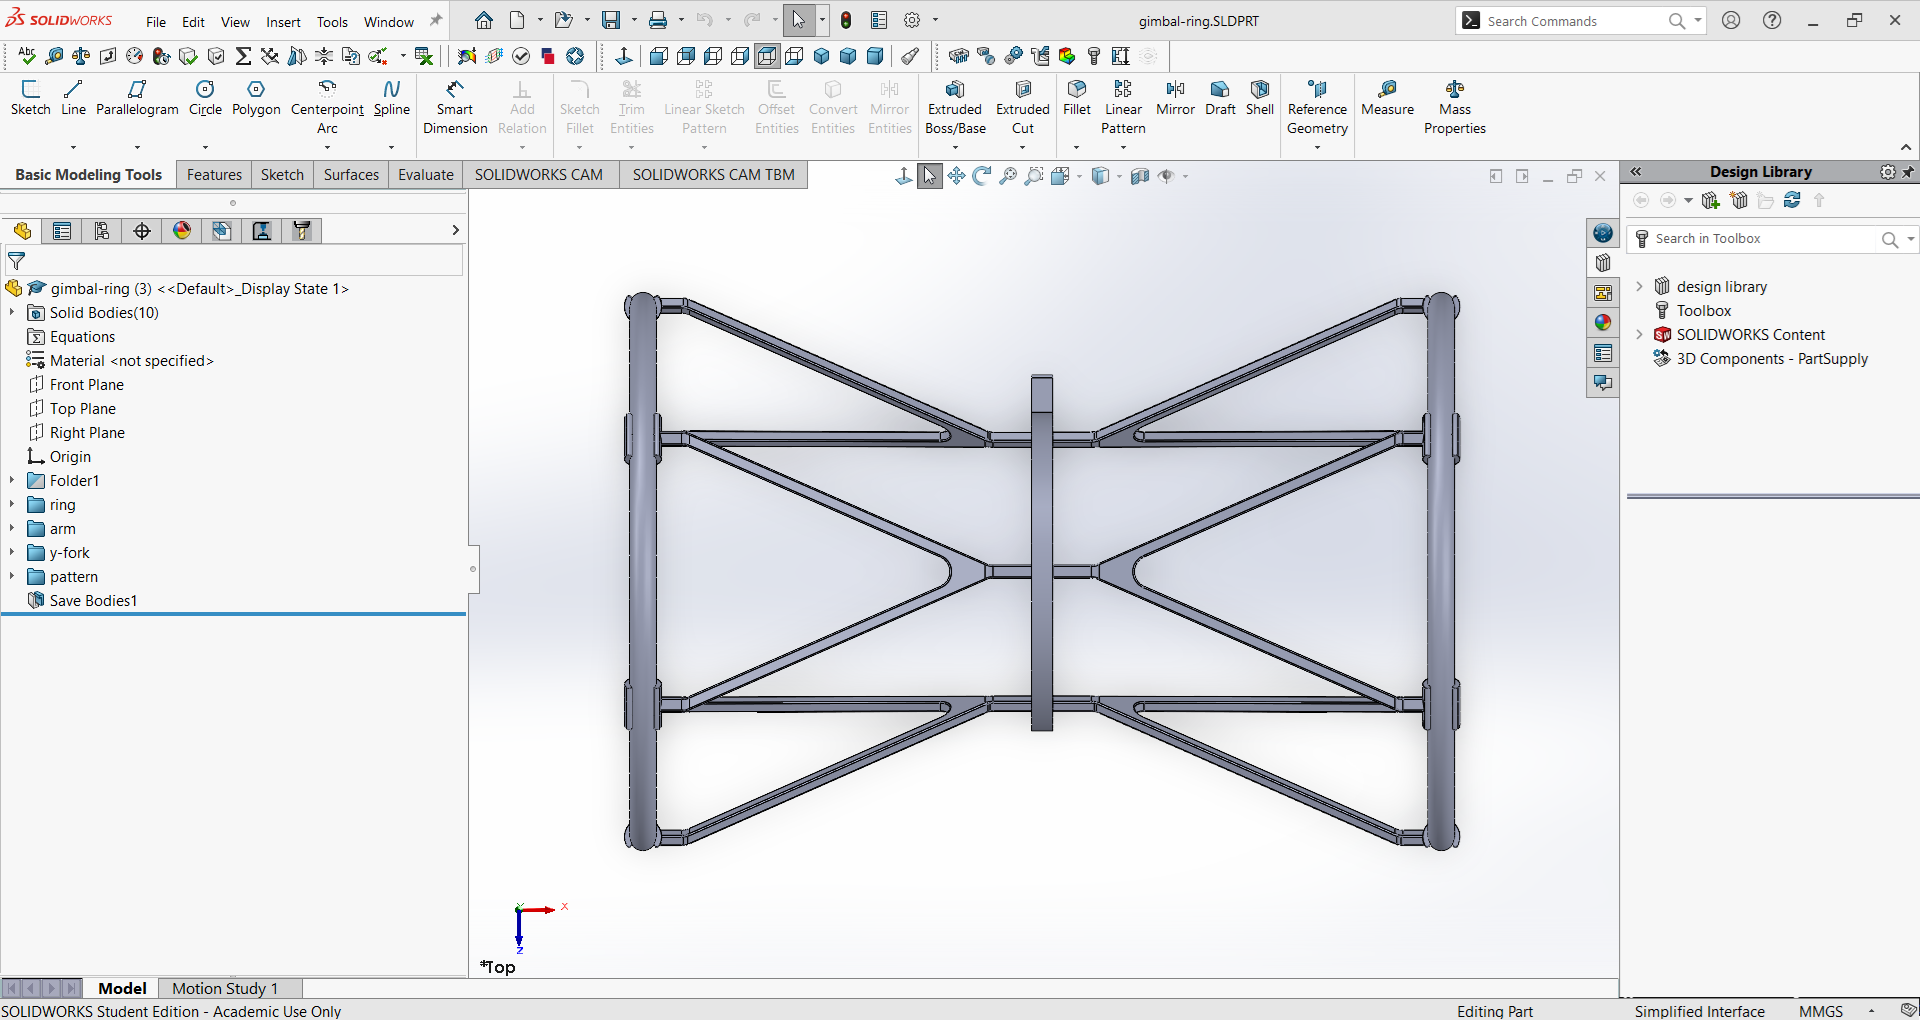
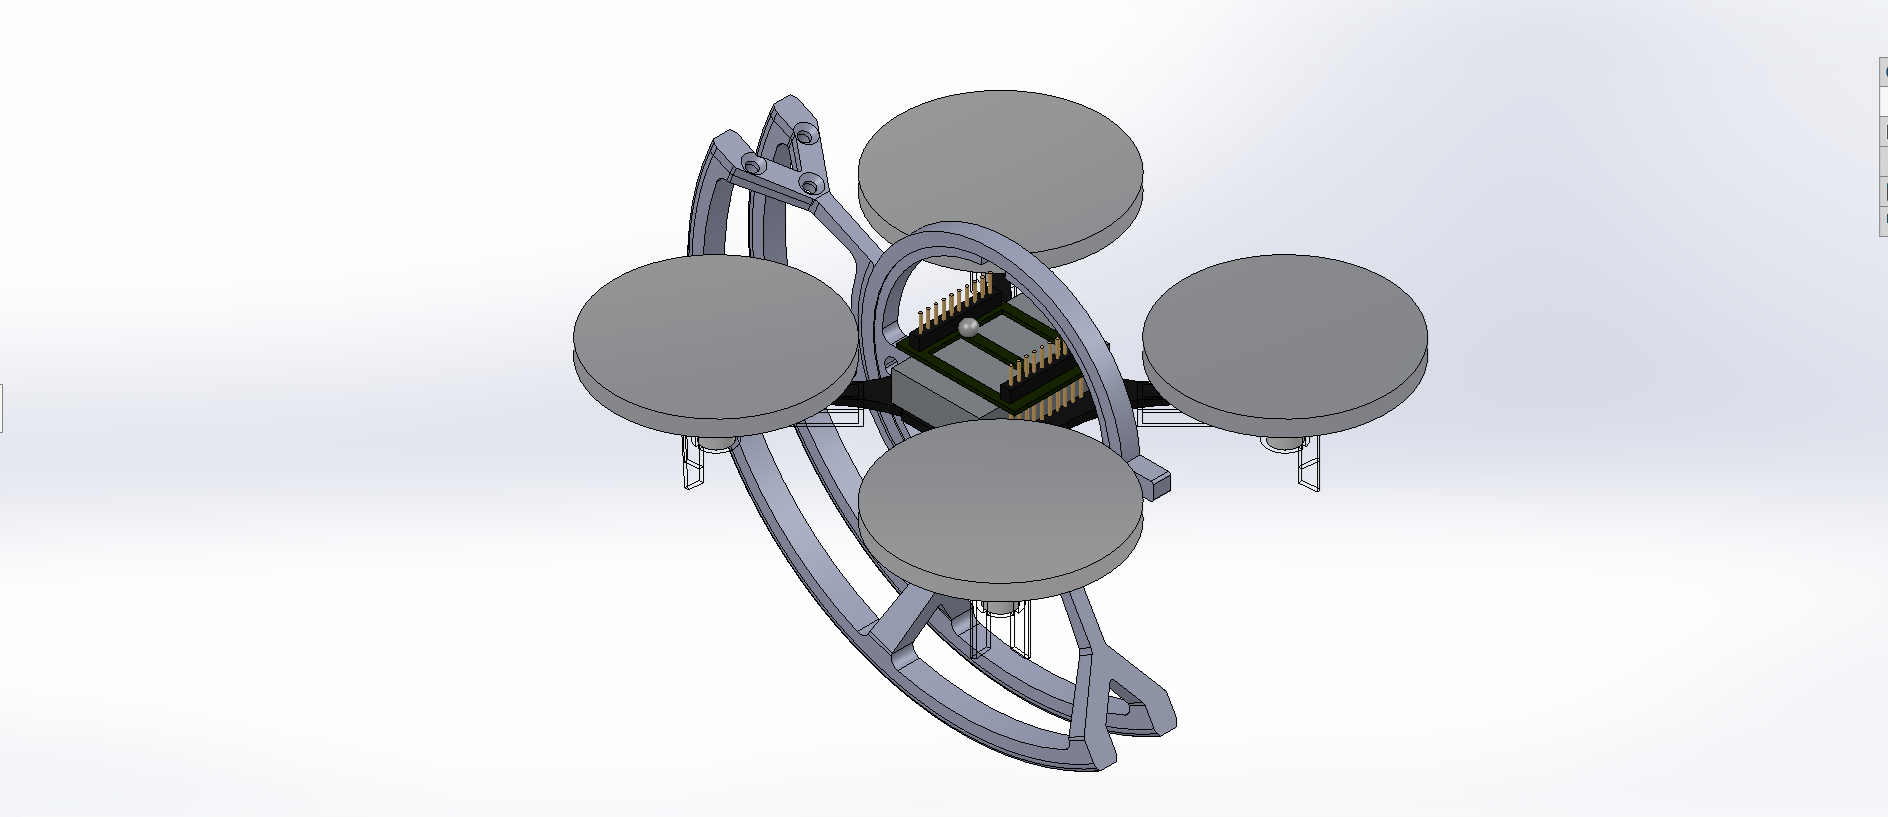
2-15-2026

diff --git a/_includes/footer.html b/_includes/footer.html
@@ -17,7 +17,7 @@
     kofiWidgetOverlay.draw('nathange', {
       'type': 'floating-chat',
       'floating-chat.donateButton.text': 'Support me',
-      'floating-chat.donateButton.background-color': '#323842',
+      'floating-chat.donateButton.background-color': 'transparent',
       'floating-chat.donateButton.text-color': '#fff'
     });
   </script>

diff --git a/projects/omni-drone.md b/projects/omni-drone.md
@@ -3,19 +3,41 @@ layout: project
 category: "research"
 title: "Omni Drone"
 date: 2026-01-24
-image: "placeholder.jpg"
+image: "omni-drone.png"
 description: "A drone that can traverse the ground"
-repo: "https://github.com/nzge/oct-probe-mount"
+repo: "https://github.com/nzge/omni-drone"
 toc: true
 ---
+
 
 
 **Project objective:**
 
 ## Build Log
 
-> 01-30-26: 1st iteration 
+> 02-14-26:   
 >
 > ![Alt text](/assets/media/omni-drone/build-log/01-30-26.png){: 
+style="width:400px;display: block; margin: auto;"}
+> ![Alt text](/assets/media/omni-drone/build-log/01-30-26.png){: 
+style="width:400px;display: block; margin: auto;"}
+> ![Alt text](/assets/media/omni-drone/build-log/01-30-26.png){: 
+style="width:400px;display: block; margin: auto;"}
+
+
+> 02-12-26:   
+>
+> ![Alt text](/assets/media/omni-drone/build-log/2026-02-12_1.png){: 
+style="width:400px;display: block; margin: auto;"}
+> ![Alt text](/assets/media/omni-drone/build-log/2026-02-12_2.png){: 
+style="width:400px;display: block; margin: auto;"}
+
+> 02-6-26:   
+>
+> figure out if we can use a single disc omniwheel design over the more traditional 2 disc design to save weight and reduce complexity.
+
+> 01-30-26: 1st iteration 
+>
+> ![Alt text](/assets/media/omni-drone/build-log/2026-01-30.png){: 
 style="width:400px;display: block; margin: auto;"}
 

diff --git a/projects/flexure-kit.md b/projects/flexure-kit.md
@@ -13,6 +13,14 @@ toc: true
 
 ## Build Log
 
+> 02-11-26: 
+> Make the wires longer and making the peg boards larger with more holes. The thinner and longer the beams, the more they will behave as wire flexures and the larger the peg boards, the more designs you can try. 
+> Another idea is to make a grounded peg board with three orthogonal walls and a similar but smaller stage so that wires can be put into it from different directions.
+>
+> ![Alt text](/assets/media/flexure-kit_media/2026-02-11.png){: 
+style="width:400px;display: block; margin: auto;"}
+
+
 > 02-11-26: 1st iteration 
 >
 > ![Alt text](/assets/media/flexure-kit_media/2026-02-11.png){: 
